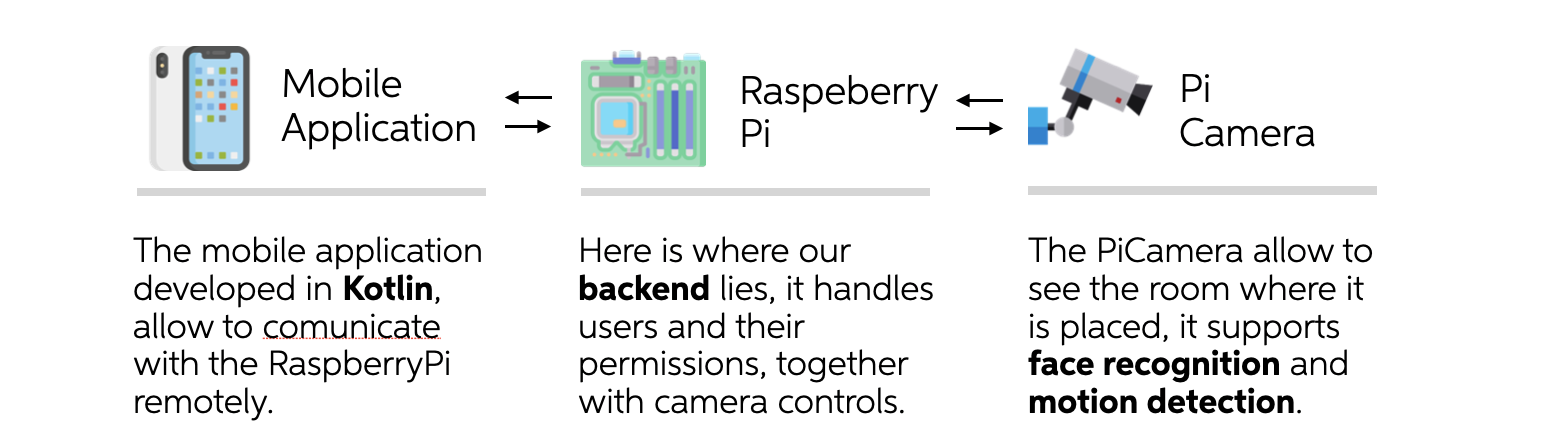
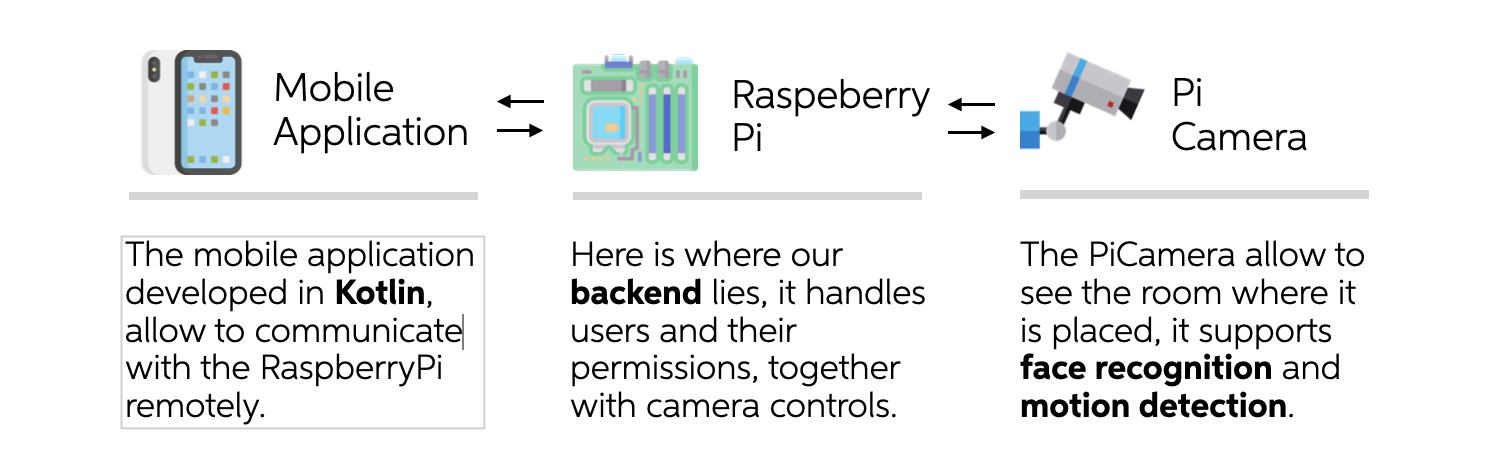
app architecture

diff --git a/pages/appdesign.md b/pages/appdesign.md
@@ -11,9 +11,11 @@ nav_order: 2
 Here we can find an overview of the building blocks of our application, some of them were also the mandatory requirements of our project. We have a responsive layout, since we used the ```ConstraintLayout``` of Android supporting also landscape mode for every view, Google and Facebook sign in/sign up in our [login](https://sergiopicca.github.io/smartPi-app/pages/ui-auth.html), a multi-thread application, since many of our operations cannot be performed on the UI thread because we would like to prevent a bad UX and finally we deployed a personal backend on our [RaspberryPi](https://sergiopicca.github.io/smartPi-app/pages/backend-raspberry.html), supported by an external storage service by [Firebase](https://sergiopicca.github.io/smartPi-app/pages/backend-firebase.html).
 
 ## Application architecture
-The following scheme briefly describe in a simple way what are the main architecture of our application and how the different components communicate among them.
+The following scheme briefly describe in a simple way what is the main architecture of our application and how the different components communicate among them.
 
 ![Architecture](../images/apparch.png)
+
+We used a server built on top of a RaspberryPi to develop the main feature of the our video surveillance system and our client application communicate with it in order to control the camera in a *ubiquitous way*. In other words, no matter where the user is, he can move the camera, take snapshots, activate the motion detection or face recognition mode and receive notifications if a stranger breaks in. 
 
 ##  Design pattern
 
